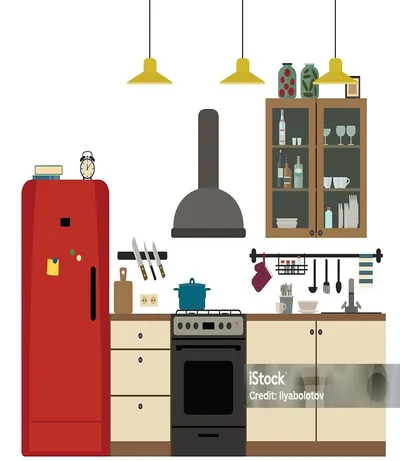
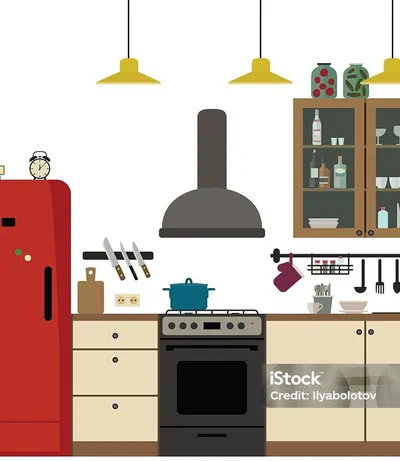
fix: cuisine iStock crop sans déformation + WhiteNoise inconditionnel

diff --git a/app.py b/app.py
@@ -500,15 +500,14 @@ try:
 except ImportError:
     print("⚠ flask-compress non installé. Installation: pip install flask-compress")
 
-# 🚀 WhiteNoise : sert les fichiers statiques efficacement en prod (gzip + cache immutable)
-if os.environ.get('RENDER'):
-    try:
-        from whitenoise import WhiteNoise
-        static_folder = os.path.join(os.path.dirname(os.path.abspath(__file__)), 'static')
-        app.wsgi_app = WhiteNoise(app.wsgi_app, root=static_folder, prefix='static/', max_age=31536000)
-        print("✅ WhiteNoise activé - fichiers statiques optimisés")
-    except ImportError:
-        print("⚠ whitenoise non installé. Installation: pip install whitenoise")
+# 🚀 WhiteNoise : sert les fichiers statiques efficacement (gzip auto + cache immutable)
+try:
+    from whitenoise import WhiteNoise
+    _static_root = os.path.join(os.path.dirname(os.path.abspath(__file__)), 'static')
+    app.wsgi_app = WhiteNoise(app.wsgi_app, root=_static_root, prefix='static/', max_age=31536000)
+    print("✅ WhiteNoise activé - root:", _static_root)
+except ImportError:
+    print("⚠ whitenoise non installé")
 
 # Ajouter un filtre Jinja personnalisé pour index
 @app.template_filter('index')
